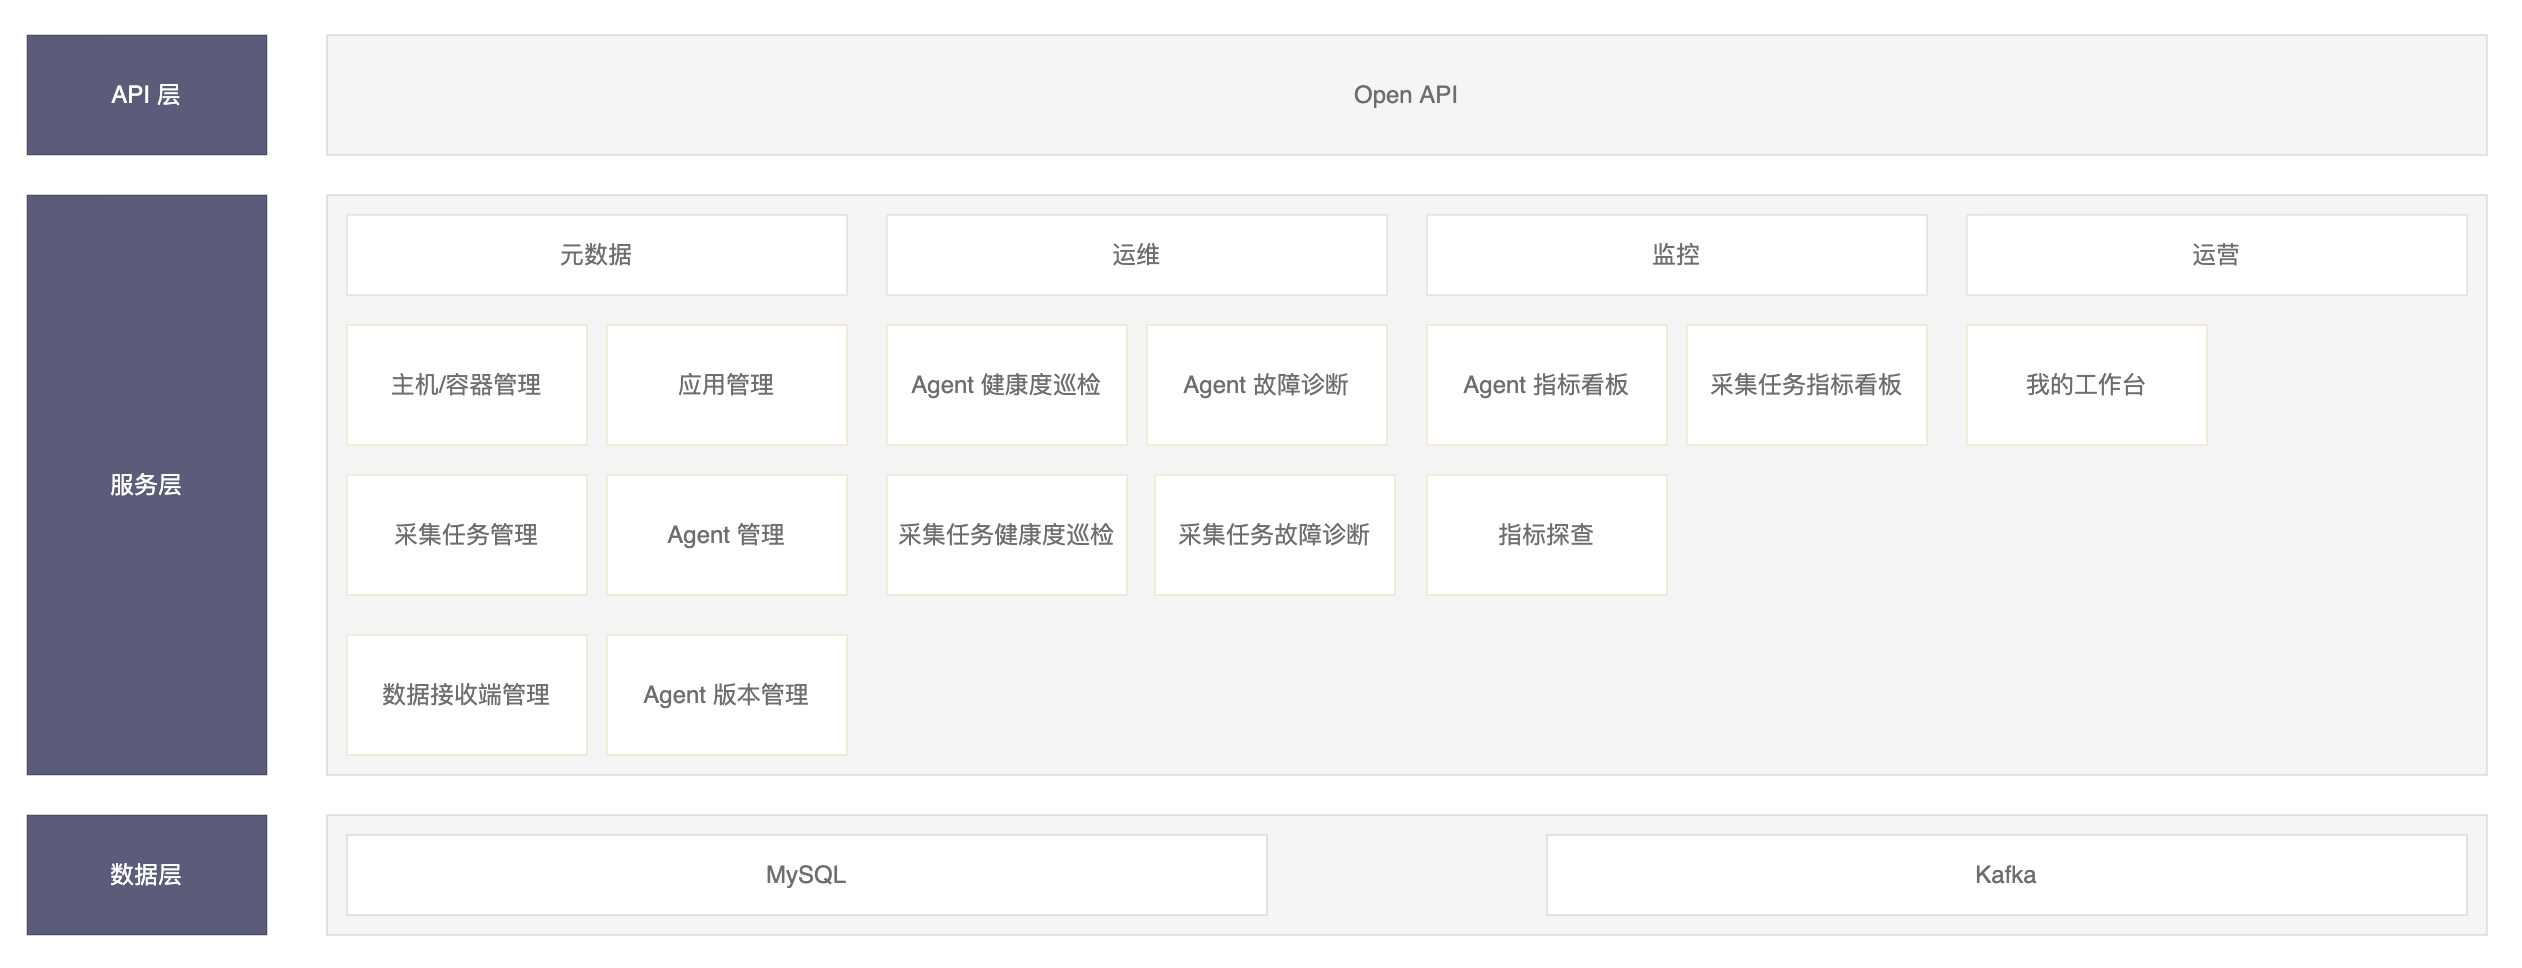
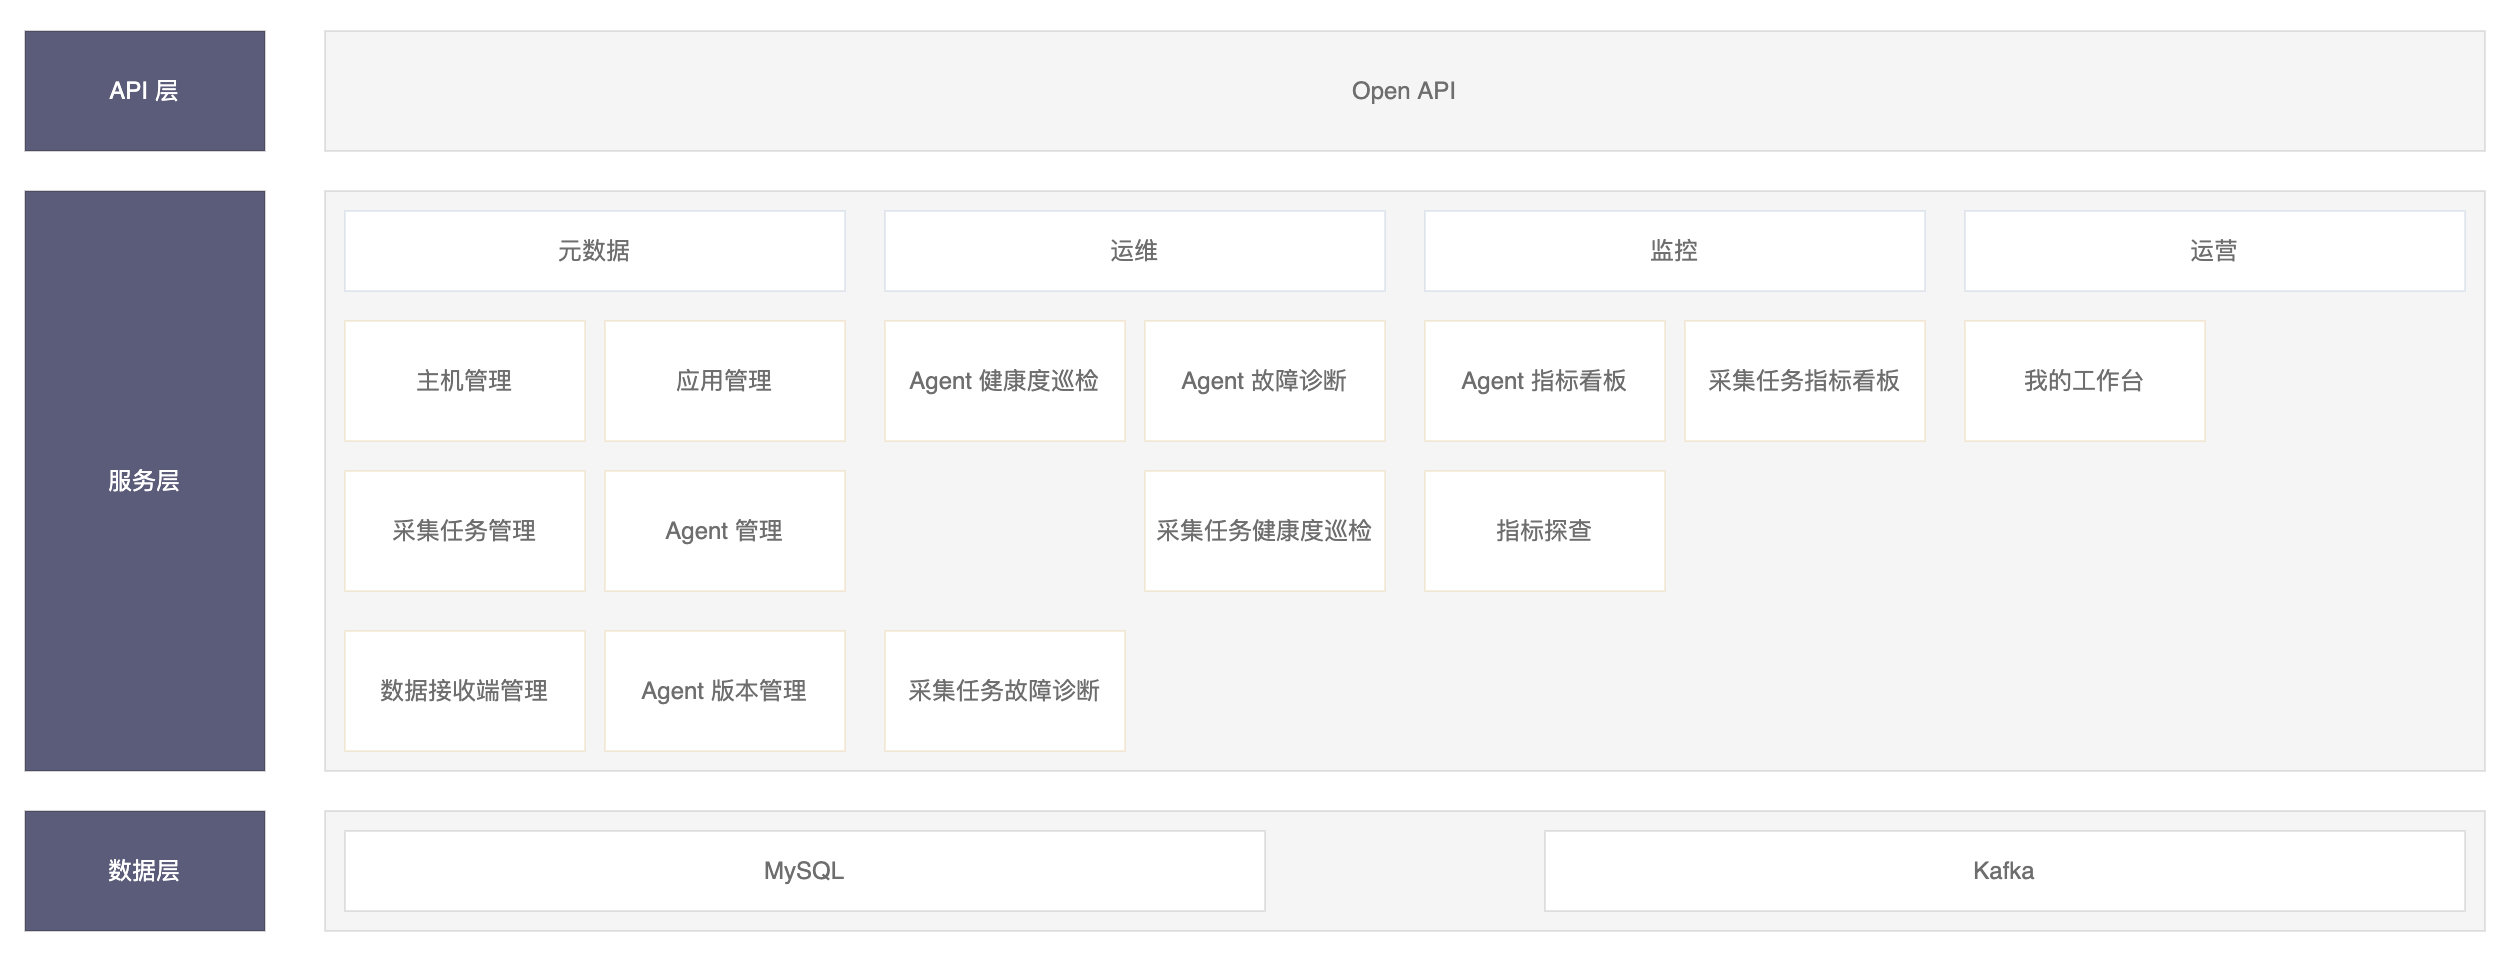
1.）完成《README》文章重构.

diff --git a/README.md b/README.md
@@ -1,45 +1,87 @@
-**面向云原生的一站式日志采集配置及运维平台**
+# **Know Agent 一站式日志采集平台**
 
-阅读本README文档，您可以了解到Know Agent的用户群体、产品定位等信息，并通过体验地址，快速体验以“应用/服务”为采集粒度，从应用维度批量下发采集任务全流程。
-若Know Agent已在贵司的生产环境进行使用，并想要获得官方更好地支持和指导，可以通过[OCE认证](http://obsuite.didiyun.com/open/openAuth)，加入官方交流平台。
+	阅读本文档，您可以了解到 `Know Agent` 的用户群体、产品定位等信息，并通过体验地址，快速体验以`应用`为采集粒度，从应用维度批量下发采集任务全流程。若`Know Agent`已在贵司的生产环境进行使用，并想要获得官方更好地支持和指导，可以通过[OCE认证](http://obsuite.didiyun.com/open/openAuth)，加入官方交流平台。
 
 # 1 产品简介
 
-Know Agent来源于滴滴多年来大量的运维实践经验。经历过多方考验，对于大规模Agent日志采集治理管控及巡检诊断已经沉淀出一套完善的解决方案。在云原生时代背景下，Know Agent以“应用/服务”为采集粒度，满足了从业务层面创建采集任务的需求。
+	`Know Agent` 源于滴滴多年来在各核心场景沉淀的超大规模采集引擎集群运维实践经验。经历过多方考验，对于大规模 Agent 日志采集的治理管控，采集任务与 Agent 的可观测性、健康度巡检、故障诊断已经沉淀出一套完善的解决方案。`Know Agent` 以应用为采集粒度，满足了从业务层面创建采集任务的需求，并易于将文件采集作为流式计算的一种可靠数据源进行接入、管理。
 
 ## 1.1 快速体验地址
 
-- 体验地址 [http://116.85.69.237/](http://116.85.69.237/) 
+- 体验地址 [http://116.85.14.32/](http://116.85.14.32/) 
 
 ## 1.2 用户体验地图
 
-- 主机/容器管理：用于维护主机、容器信息至系统(含:容器-主机关系)
-- 服务管理：用于维护服务信息至系统(含:服务-主机、服务-容器关系)
-- 日志接收端管理：用于维护Agent上报的数据流、指标流、错误日志流需要写入的下游接收端信息(目前接收端类型仅支持kafka)
-- Agent管理：用于维护Agent信息(含:Agent指标流、错误日志流对应下游的接收端信息、Agent限流信息等) ，Agent被部署、启动后，会自动向管理平台进行注册，注册成功后，即可进行对应管理，**注意：Agent注册前，请在平台维护好Agent宿主机信息**
-- 日志采集任务管理：用于面向服务配置采集任务，配置好的采集任务通过服务找到部署该服务的主机/容器集，针对采集这些主机、容器的Agent集，进行日志采集任务下发 
-- Agent指标查看：用于查看Agent运行时全景指标
-- 日志采集任务指标查看：用于查看日志采集任务在各Agent上运行时全景指标
--  Agent健康度巡检：基于Agent运行时指标对Agent是否运行健康进行检查
-- 日志采集任务健康度巡检：基于日志采集任务在各Agent运行时指标对日志采集任务是否运行健康进行检查
+- 我的工作台：运营与运维大盘。
+- Agent 中心
+  - Agent 版本管理：维护各个版本的 Agent 安装包信息。
+  - Agent 管理：维护 Agent 相关信息、查看 Agent 健康度与故障原因（健康度为黄或红）。Agent 启动后，将携带宿主机信息自动向管理平台进行注册，注册成功后，即可对其进行管理。
+  - 指标看板：查看 Agent 运行时全景指标（含：系统、进程、与 Agent 自身业务指标）。
+
+- 应用管理：维护应用相关信息、与**应用-主机**关联关系。
+- 接收端管理：维护 Agent 上报的数据流、指标流、错误日志流需要写入的下游接收端相关信息。
+- 采集任务
+  - 采集任务管理：维护采集任务相关信息，查看采集任务健康度与故障原因（健康度为黄或红）。
+  - 指标看板：用于查看采集任务在各个主机上的运行时全景指标。
+
+- 工具箱
+  - 指标探查：整合 Agent 与采集任务指标看板，一体化观测。
+
 
 ## 1.3 核心优势
 
-- 稳定可靠的采集引擎：基于滴滴内部多年来沉淀的经验，在多年、数千个应用、数十万台机器，各核心业务场景的锤炼打磨下，在采集业务层面足够稳定成熟
-- 便捷的日志采集配置能力：通用场景下尽量少的配置，配置所见即所得
-- 高效的问题诊断、定位能力：具有卓越的指标诊断体系，将Agent、日志采集任务运行时状态全景数字化呈现，实时监控Agent及采集任务健康度，提供故障诊断功能并开具相应诊断报告，可高效快捷的实现问题定位
-- 强大的运维能力：基于滴滴多年各核心业务、海量Agent与采集任务的运维经验，对于超大规模Agent与采集任务的治理管控及巡检诊断已经沉淀出一套完善的解决方案。实时查看运维任务，便于运维人员把控运维任务进度及状态
+**一站式日志采集方案**
 
-## 1.4 滴滴Logi-Agent架构图
+	高可靠、高性能、具备全方位可观测性的采集引擎，与面向应用的易管控、易观测、易治理的管理平台，大幅降低日志数据采集接入成本，大幅提升日志数据采集接入效率。
 
-![架构图](./doc/assets/架构图.png)
+**易融入流式计算**
+
+	面向应用的采集任务、高可靠的采集引擎可确保在任意情况下的数据完整性、完善的监控指标，支撑可靠的采集任务的数据完整性校验，这使得采集任务可作为流式计算的一种可靠的数据源，形成整个流式计算链路的数据完整性闭环。
+
+**生产级特性**
+
+	经过长时间在各场景下大规模采集引擎集群运维沉淀的专家经验，形成了全方位的可观测性与完善的故障、风险感知与诊断能力，使较少的无需采集引擎先验知识的普通运维人员亦能轻松运维庞大的采集引擎集群。
+
+**高性能**
+
+	优异的持续采集性能，基于jdk11+，处理单行、单文件、无解析场景下发送日志数据至kafka，持续吞吐量可达100MB/s以上，极限吞吐量可达150MB/s以上，CPU限制单核情况下，持续吞吐量可达40MB/s以上。
+
+**同类对比**
+
+|         维度         |            Flume             |           FileBeat           |                          Logi-Agent                          |
+| :------------------: | :--------------------------: | :--------------------------: | :----------------------------------------------------------: |
+|        可靠性        |             一般             |             一般             |                            高可靠                            |
+|       采集性能       |             Mb级             |            十Mb级            |                            百Mb级                            |
+|      数据完整性      |      无法确保数据完整性      |      无法确保数据完整性      |                       可确保数据完整性                       |
+| 采集任务级的租户隔离 | 无法做到采集任务级的租户隔离 | 无法做到采集任务级的租户隔离 |                  可做到采集任务级的租户隔离                  |
+|       可扩展性       |             良好             |             一般             |                             一般                             |
+|       资源消耗       |              高              |              低              | CPU消耗与FileBeat趋近（大采集量场景下CPU消耗较FileBeat更小），内存消耗较FileBeat略大（但在一个数量级上） |
+|  监控指标的完善程度  |           较少指标           |           较少指标           |                        完善的指标体系                        |
+|       可观测性       |              无              |              无              |                     具备全方位的可观测性                     |
+|     是否容易配置     |              否              |              否              |                              是                              |
+|   大规模运维复杂度   |             极高             |             极高             |                              低                              |
+
+## 1.4 Know Agent 架构
+
+	`Know Agent` 是一站式的日志采集平台，包括两个组件：
+
+- Agent：是基于 Java 的高性能、支持多租户隔离的采集引擎，它能在任意情况下（除：待采集数据在被采集前被移除，例如：日志文件被归档或日志文件滚动速度太快导致）保证采集数据的完整性，持续采集速度可达150MB+/秒。
+- Agent Manager：是针对 Agent 的管理平台。用于管理相关元数据、Agent与采集任务，自动巡检 Agent 与采集任务的健康度、故障诊断，指标展示。
+
+<img src="/Users/didi/Desktop/workspace/LogiAM/doc/assets/know agent总体设计.png" alt="logi-am架构" style="zoom:50%;" />	
+
+### 1.4.1 Agent 架构
+
+<img src="/Users/didi/Desktop/workspace/LogiAM/doc/assets/know agent架构.png" alt="know agent架构" style="zoom: 50%;" />
+
+### 1.4.2 Agent Manager 架构
+
+![Agent-Manager 架构](/Users/didi/Desktop/workspace/LogiAM/doc/assets/Agent-Manager 架构.png)
 
 # 2 相关文档
 ## 2.1 产品文档
 
 [Know Agent安装部署手册](doc/Know Agent安装部署手册.md)
-
-[Know Agent-k8s容器采集接入手册](doc/k8s容器采集接入手册.md)
 
 [Know Agent开发手册](doc/Know Agent开发手册.md)
 

diff --git a/doc/Know Agent一站式日志采集平台.md b/doc/Know Agent一站式日志采集平台.md
@@ -62,7 +62,7 @@
 
 #### 可管控
 
-##### 采集任务面向服务而非面向机器
+##### 采集任务面向应用而非面向机器
 
 	平台需要支持面向应用的采集任务配置而非面向机器（组）的采集任务配置。以往的一些采集引擎管理平台，在下发采集配置的过程中，往往是面向机器的，比如：某个采集配置下发至哪台机器或哪个机器组。然而日志一定是作用于业务的，机器 - 业务还有一层，这大大增加了维护人员操作复杂度。
 
@@ -128,7 +128,7 @@
 
 	Know Agent 是一站式的日志采集平台，包括两个组件：
 
-- Agent：是基于 Java 的高性能、支持多租户隔离的采集引擎，它能在任意情况下保证采集数据的完整性，持续采集速度可达150MB+/秒。
+- Agent：是基于 Java 的高性能、支持多租户隔离的采集引擎，它能在任意情况下（除：待采集数据在被采集前被移除，例如：日志文件被归档或日志文件滚动速度太快导致）保证采集数据的完整性，持续采集速度可达150MB+/秒。
 - Agent Manager：是针对 Agent 的管理平台。用于管理相关元数据、Agent与采集任务，自动巡检 Agent 与采集任务的健康度、故障诊断，指标展示。
 
 <img src="assets/know agent总体设计.png" alt="logi-am架构" style="zoom:50%;" />	
@@ -168,13 +168,13 @@
 
 ## 特性
 
-### 一站式数据采集方案
+### 一站式日志采集方案
 
-	高可靠、高性能、易扩展、具备全方位可观测性的采集引擎，与面向服务的易管、易观、易治理的管理平台，大幅降低日志数据采集接入成本，大幅提升日志数据采集接入效率。
+	高可靠、高性能、具备全方位可观测性的采集引擎，与面向应用的易管控、易观测、易治理的管理平台，大幅降低日志数据采集接入成本，大幅提升日志数据采集接入效率。
 
 ### 易融入流式计算
 
-	面向服务的采集任务、高可靠的采集引擎可确保在任意情况下的数据完整性、完善的监控指标，支撑可靠的采集任务的数据完整性校验，这使得采集任务可作为流式计算的一种可靠的数据源，形成整个流式计算链路的数据完整性闭环。
+	面向应用的采集任务、高可靠的采集引擎可确保在任意情况下的数据完整性、完善的监控指标，支撑可靠的采集任务的数据完整性校验，这使得采集任务可作为流式计算的一种可靠的数据源，形成整个流式计算链路的数据完整性闭环。
 
 ### 生产级特性
 

diff --git a/doc/Know Agent安装部署手册.md b/doc/Know Agent安装部署手册.md
@@ -1,4 +1,4 @@
-# Agent-Manager
+# Agent Manager
 
 ## 1. 环境准备
 
@@ -9,11 +9,11 @@
 
 ## 2. 源代码编译打包
 
-下载好源代码后，进入`Agent-Manager`的主目录，执行`sh build.sh`命令，得到output目录。
+	下载好源代码后，进入`agent-manager`的目录，执行`sh build.sh`命令，得到output目录。
 
 ## 3. MySQL-DB初始化
 
-执行[create_mysql_table.sql](../agent-manager/create_mysql_table.sql)中的SQL命令，从而创建所需的MySQL库及表，默认创建的库名是`logi_agent_manager`。
+	进入`agent-manager`目录，执行[create_mysql_table.sql](../agent-manager/create_mysql_table.sql)中的SQL命令，从而创建所需的MySQL库及表，默认创建的库名是`agent_manager`。
 
 ```
 # 示例：
@@ -34,15 +34,13 @@ auv-job.password：同配置项 spring.datasource.druid.password
 
 ## 5. 启动与停止
 
-在`output`目录下，执行`sh start.sh`即可启动Agent-Manager服务，执行`sh stop.sh`即可停止Agent-Manager服务。
+	在`output`目录下，执行`sh start.sh`即可启动 Agent-Manager 服务，执行`sh stop.sh`即可停止 Agent-Manager 服务。
 
 ## 6. 使用
 
-本地启动的话，访问`http://localhost:8080`。更多参考：[agent-manager 用户使用手册](../doc/user_guide/user_guide_cn.md)
+	本地启动的话，访问`http://localhost:9010`。更多参考：[agent-manager 用户使用手册](../doc/user_guide/user_guide_cn.md)
 
-
-
-# Log-Agent
+# Agent
 
 ## 1. 环境准备
 
@@ -51,9 +49,9 @@ auv-job.password：同配置项 spring.datasource.druid.password
 
 ## 2. 源代码编译打包
 
-### Log-Agent
+### Agent
 
-在编译打包Log-Agent项目前，请先对Agent-Manager项目进行编译打包（见：[Agent-Manager 安装部署手册.md](Agent-Manager%20安装部署手册.md)）。下载好Log-Agent项目源代码后，进入Log-Agent目录，执行`sh build.sh`命令，得到output目录。
+	在编译打包Log-Agent项目前，请先对Agent-Manager项目进行编译打包。下载好Log-Agent项目源代码后，进入Log-Agent目录，执行`sh build.sh`命令，得到output目录。
 
 ## 3. 配置文件修改
 
